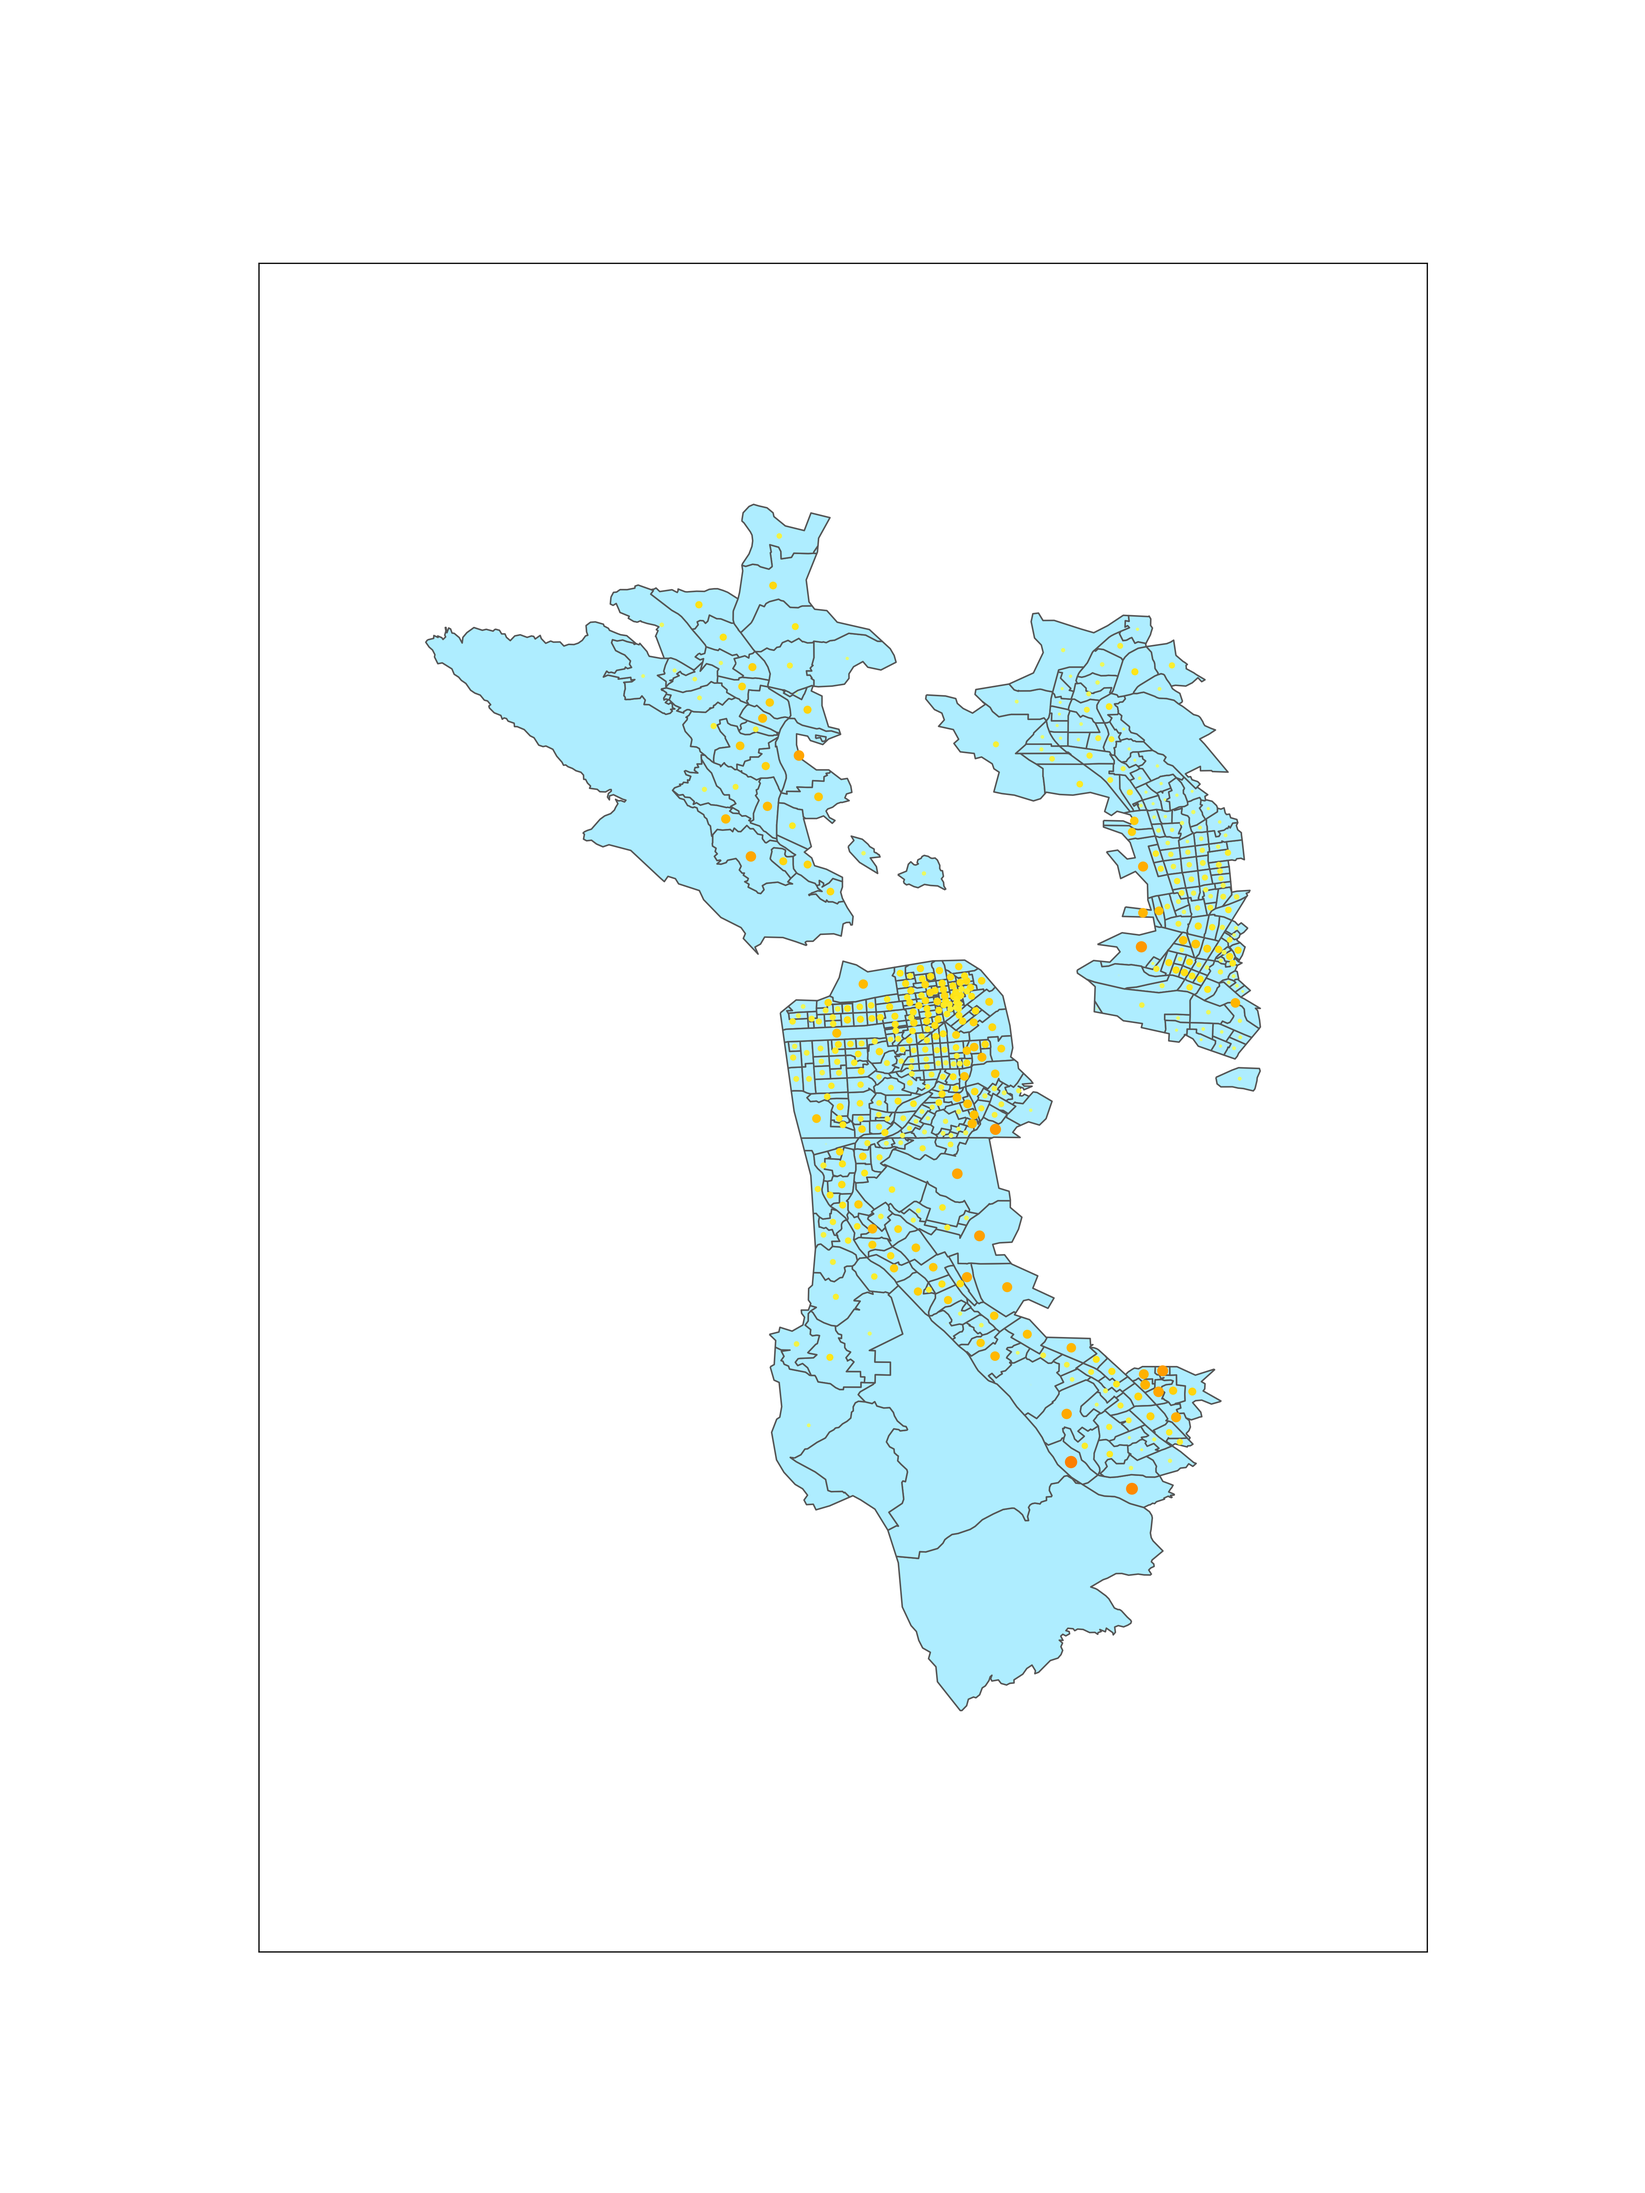
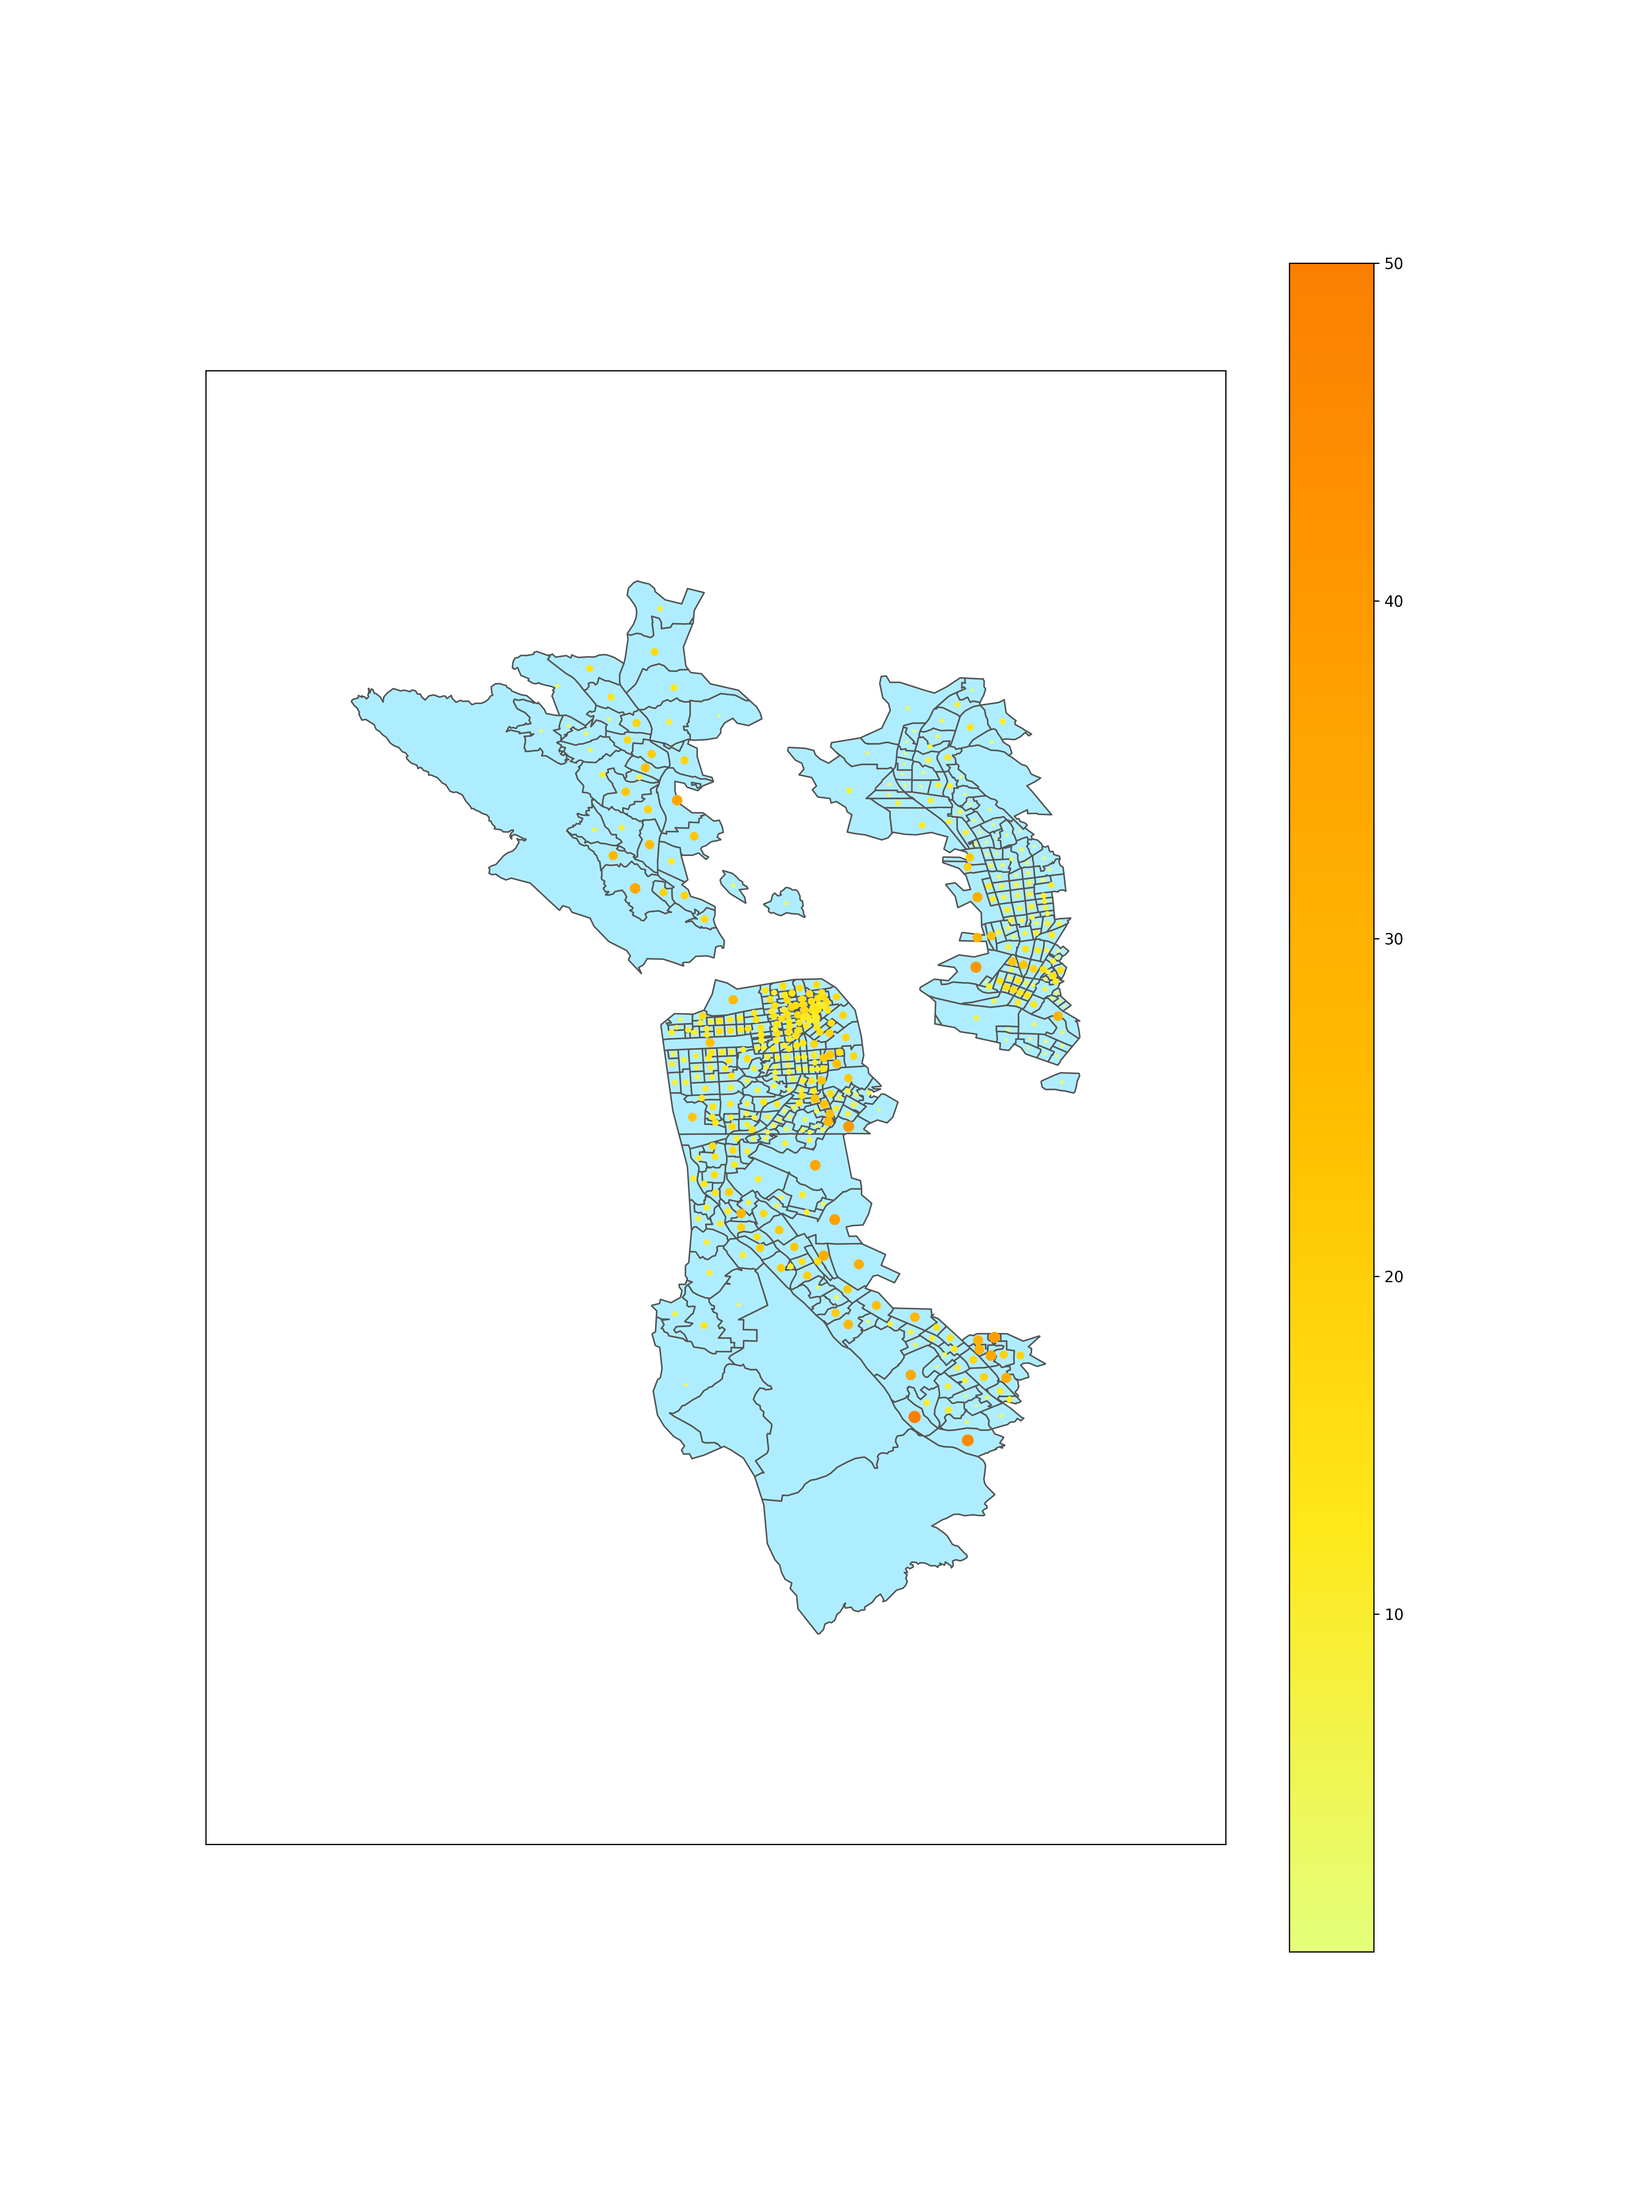
New images

Changed region(s): [[0.2178, 0.0935, 0.84, 0.9038]]

diff --git a/util.py b/util.py
@@ -316,7 +316,8 @@ def draw_map(filename, plot_centroids=False, scale_centroids=False, plot_edges=F
                 longs.append(row.longitude)
             except:
                 continue
-        ax.scatter(lats, longs, s=scales, c=scales, cmap=plt.cm.get_cmap('Wistia'))
+        vis = ax.scatter(lats, longs, s=scales, c=scales, cmap=plt.cm.get_cmap('Wistia'))
+        fig.colorbar(vis)
     elif plot_centroids and centroid_classes:
         print(centroid_classes)
         zone_info = pd.read_csv(ZONE_INFO_CSV_PATH)
